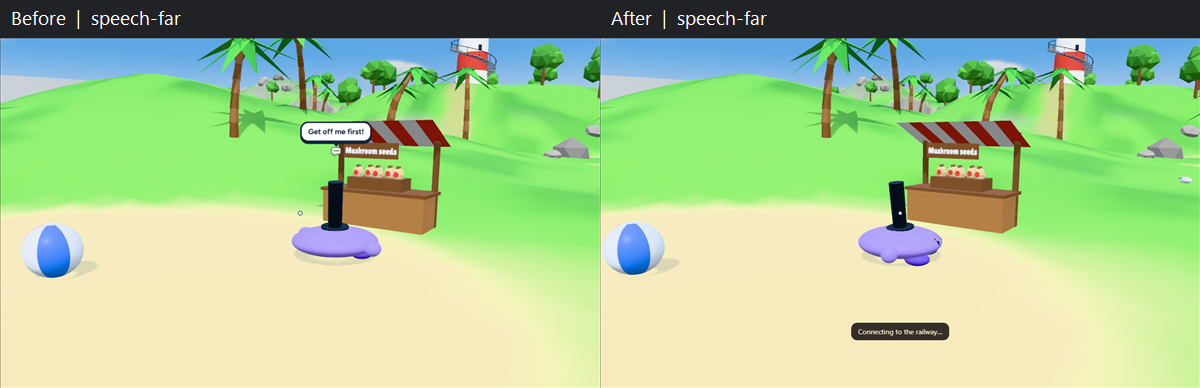
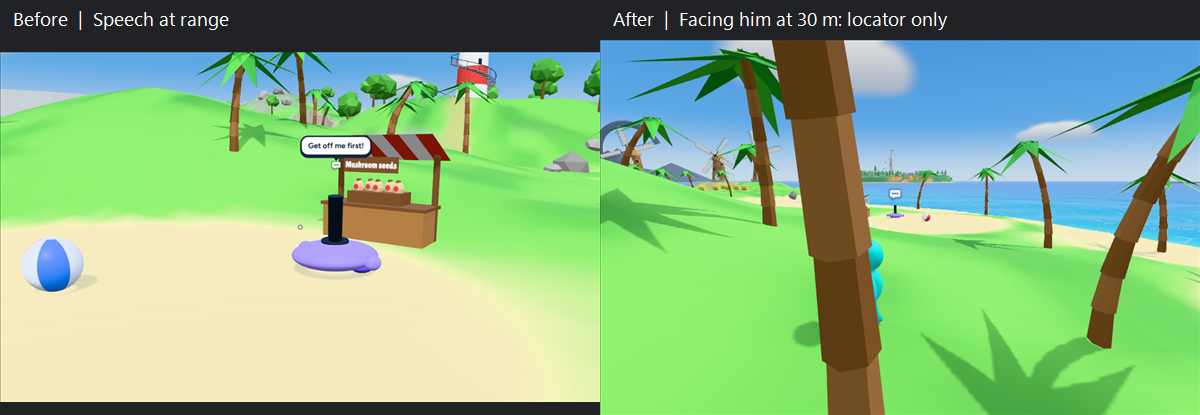
Keep the Boogler locator visible beyond earshot

diff --git a/src/boogler/hud.ts b/src/boogler/hud.ts
@@ -112,7 +112,7 @@ export function updateBooglerHud() {
   const close = !!promptShown || dist < (near ? NAME_FAR : NAME_NEAR);
   if (close !== near) d.tag.classList.toggle('near', (near = close));
   const withinEarshot = !!me.body && dist < 24;
-  d.tag.hidden = !s.onScreen || !withinEarshot;
+  d.tag.hidden = !s.onScreen;
   if (s.onScreen) d.tag.style.transform = `translate(${s.labelX.toFixed(1)}px, ${s.labelY.toFixed(1)}px)`;
   const onIsland = !!me.body && onBooglerIsland(me.body.position.x, me.body.position.z);
   const talking = s.onScreen && onIsland && withinEarshot && performance.now() < bubble.until;

diff --git a/docs/game-design/boogler.md b/docs/game-design/boogler.md
@@ -5,7 +5,7 @@ dreams of a restaurant. He wears a comically tall black top hat (cosmetic, no co
 crown half the brim's, about 0.9 m tall (one and a half times his height). It lags and wobbles on springs when he hops and
 walks, and is crushed flat like an opera hat while someone rides him, popping back up after. His HUD stays quiet, like Fortnite's NPC markers: a small talk-bubble mark over his head at range, and within
 10 m his name plate and the interact prompt (hidden again past 12 m). While wary, the plate says "avoiding you". His speech bubbles
-show only while you are on his island (dry land of its grid; Local presentation), within 24 m of him. His overhead mark disappears at the same distance. Off screen, the same mark sits on the screen edge with his distance (full within 35 m, gone by 60 m).
+show only while you are on his island (dry land of its grid; Local presentation), within 24 m of him. His overhead mark stays visible when he is on screen, even beyond earshot. Off screen, the same mark sits on the screen edge with his distance (full within 35 m, gone by 60 m).
 
 ## Wander
 
